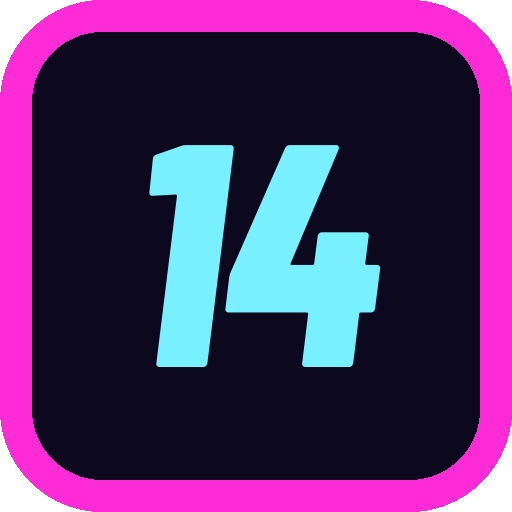
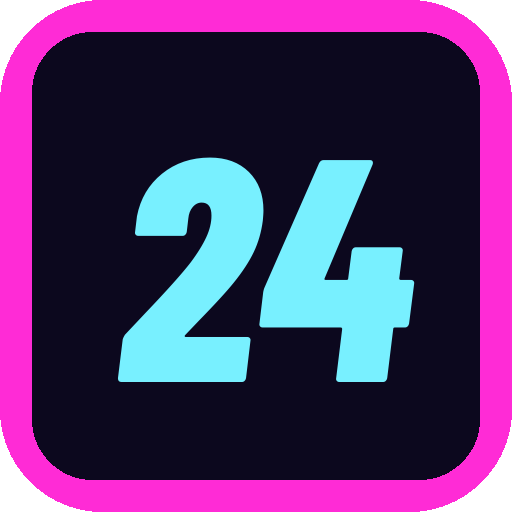
Update the site badge from 23 to 24 to match the game count.
The homepage and games-list nav marks now read 24, favicons and app icons
show 24 instead of the old 14, and the README catalogue count is current.

diff --git a/index.html b/index.html
@@ -288,7 +288,7 @@ a{color:var(--cyan)}a:hover{color:#fff}
 <a class="skip" href="#games">Skip to games</a>
 <header class="nav" id="nav">
   <div class="nav__in">
-    <a class="brand" href="#top"><span class="brand__mark" aria-hidden="true">23</span><span class="brand__txt">AVPNFT1<em>GAMES</em></span></a>
+    <a class="brand" href="#top"><span class="brand__mark" aria-hidden="true">24</span><span class="brand__txt">AVPNFT1<em>GAMES</em></span></a>
     <nav aria-label="Main"><ul class="nav__links">
       <li><a href="#featured">Featured</a></li>
       <li><a href="#trailer">Trailer</a></li>
@@ -561,7 +561,7 @@ a{color:var(--cyan)}a:hover{color:#fff}
 
 <footer class="foot">
   <div class="wrap foot__in">
-    <a class="brand" href="#top"><span class="brand__mark" aria-hidden="true">23</span><span class="brand__txt">AVPNFT1<em>GAMES</em></span></a>
+    <a class="brand" href="#top"><span class="brand__mark" aria-hidden="true">24</span><span class="brand__txt">AVPNFT1<em>GAMES</em></span></a>
     <nav aria-label="Footer"><ul class="foot__links">
       <li><a href="https://avpnft1.itch.io/" target="_blank" rel="noopener">All games on itch.io</a></li>
       <li><a href="https://gamejolt.com/games/hit-the-future/1114193" target="_blank" rel="noopener">Game Jolt</a></li>

diff --git a/games/chaos-drive/index.html b/games/chaos-drive/index.html
@@ -34,7 +34,7 @@
 <a class="skip" href="#main">Skip to content</a>
 <header class="nav" id="nav">
   <div class="nav__in">
-    <a class="brand" href="/#top"><span class="brand__mark" aria-hidden="true">23</span><span class="brand__txt">AVPNFT1<em>GAMES</em></span></a>
+    <a class="brand" href="/#top"><span class="brand__mark" aria-hidden="true">24</span><span class="brand__txt">AVPNFT1<em>GAMES</em></span></a>
     <nav aria-label="Primary">
       <ul class="nav__links">
         <li><a href="/#games">Games</a></li>
@@ -88,7 +88,7 @@
 </main>
 <footer class="foot">
   <div class="wrap foot__in">
-    <a class="brand" href="/#top"><span class="brand__mark" aria-hidden="true">23</span><span class="brand__txt">AVPNFT1<em>GAMES</em></span></a>
+    <a class="brand" href="/#top"><span class="brand__mark" aria-hidden="true">24</span><span class="brand__txt">AVPNFT1<em>GAMES</em></span></a>
     <ul class="foot__links">
       <li><a href="/#games">All games</a></li>
       <li><a href="https://avpnft1.itch.io/">itch.io</a></li>

diff --git a/games/chaos-quest/index.html b/games/chaos-quest/index.html
@@ -34,7 +34,7 @@
 <a class="skip" href="#main">Skip to content</a>
 <header class="nav" id="nav">
   <div class="nav__in">
-    <a class="brand" href="/#top"><span class="brand__mark" aria-hidden="true">23</span><span class="brand__txt">AVPNFT1<em>GAMES</em></span></a>
+    <a class="brand" href="/#top"><span class="brand__mark" aria-hidden="true">24</span><span class="brand__txt">AVPNFT1<em>GAMES</em></span></a>
     <nav aria-label="Primary">
       <ul class="nav__links">
         <li><a href="/#games">Games</a></li>
@@ -88,7 +88,7 @@
 </main>
 <footer class="foot">
   <div class="wrap foot__in">
-    <a class="brand" href="/#top"><span class="brand__mark" aria-hidden="true">23</span><span class="brand__txt">AVPNFT1<em>GAMES</em></span></a>
+    <a class="brand" href="/#top"><span class="brand__mark" aria-hidden="true">24</span><span class="brand__txt">AVPNFT1<em>GAMES</em></span></a>
     <ul class="foot__links">
       <li><a href="/#games">All games</a></li>
       <li><a href="https://avpnft1.itch.io/">itch.io</a></li>

diff --git a/games/grand-tournament-auto/index.html b/games/grand-tournament-auto/index.html
@@ -34,7 +34,7 @@
 <a class="skip" href="#main">Skip to content</a>
 <header class="nav" id="nav">
   <div class="nav__in">
-    <a class="brand" href="/#top"><span class="brand__mark" aria-hidden="true">23</span><span class="brand__txt">AVPNFT1<em>GAMES</em></span></a>
+    <a class="brand" href="/#top"><span class="brand__mark" aria-hidden="true">24</span><span class="brand__txt">AVPNFT1<em>GAMES</em></span></a>
     <nav aria-label="Primary">
       <ul class="nav__links">
         <li><a href="/#games">Games</a></li>
@@ -88,7 +88,7 @@
 </main>
 <footer class="foot">
   <div class="wrap foot__in">
-    <a class="brand" href="/#top"><span class="brand__mark" aria-hidden="true">23</span><span class="brand__txt">AVPNFT1<em>GAMES</em></span></a>
+    <a class="brand" href="/#top"><span class="brand__mark" aria-hidden="true">24</span><span class="brand__txt">AVPNFT1<em>GAMES</em></span></a>
     <ul class="foot__links">
       <li><a href="/#games">All games</a></li>
       <li><a href="https://avpnft1.itch.io/">itch.io</a></li>

diff --git a/games/hell-casino/index.html b/games/hell-casino/index.html
@@ -34,7 +34,7 @@
 <a class="skip" href="#main">Skip to content</a>
 <header class="nav" id="nav">
   <div class="nav__in">
-    <a class="brand" href="/#top"><span class="brand__mark" aria-hidden="true">23</span><span class="brand__txt">AVPNFT1<em>GAMES</em></span></a>
+    <a class="brand" href="/#top"><span class="brand__mark" aria-hidden="true">24</span><span class="brand__txt">AVPNFT1<em>GAMES</em></span></a>
     <nav aria-label="Primary">
       <ul class="nav__links">
         <li><a href="/#games">Games</a></li>
@@ -88,7 +88,7 @@
 </main>
 <footer class="foot">
   <div class="wrap foot__in">
-    <a class="brand" href="/#top"><span class="brand__mark" aria-hidden="true">23</span><span class="brand__txt">AVPNFT1<em>GAMES</em></span></a>
+    <a class="brand" href="/#top"><span class="brand__mark" aria-hidden="true">24</span><span class="brand__txt">AVPNFT1<em>GAMES</em></span></a>
     <ul class="foot__links">
       <li><a href="/#games">All games</a></li>
       <li><a href="https://avpnft1.itch.io/">itch.io</a></li>

diff --git a/games/helldrive/index.html b/games/helldrive/index.html
@@ -34,7 +34,7 @@
 <a class="skip" href="#main">Skip to content</a>
 <header class="nav" id="nav">
   <div class="nav__in">
-    <a class="brand" href="/#top"><span class="brand__mark" aria-hidden="true">23</span><span class="brand__txt">AVPNFT1<em>GAMES</em></span></a>
+    <a class="brand" href="/#top"><span class="brand__mark" aria-hidden="true">24</span><span class="brand__txt">AVPNFT1<em>GAMES</em></span></a>
     <nav aria-label="Primary">
       <ul class="nav__links">
         <li><a href="/#games">Games</a></li>
@@ -88,7 +88,7 @@
 </main>
 <footer class="foot">
   <div class="wrap foot__in">
-    <a class="brand" href="/#top"><span class="brand__mark" aria-hidden="true">23</span><span class="brand__txt">AVPNFT1<em>GAMES</em></span></a>
+    <a class="brand" href="/#top"><span class="brand__mark" aria-hidden="true">24</span><span class="brand__txt">AVPNFT1<em>GAMES</em></span></a>
     <ul class="foot__links">
       <li><a href="/#games">All games</a></li>
       <li><a href="https://avpnft1.itch.io/">itch.io</a></li>

diff --git a/games/hit-the-future-2/index.html b/games/hit-the-future-2/index.html
@@ -34,7 +34,7 @@
 <a class="skip" href="#main">Skip to content</a>
 <header class="nav" id="nav">
   <div class="nav__in">
-    <a class="brand" href="/#top"><span class="brand__mark" aria-hidden="true">23</span><span class="brand__txt">AVPNFT1<em>GAMES</em></span></a>
+    <a class="brand" href="/#top"><span class="brand__mark" aria-hidden="true">24</span><span class="brand__txt">AVPNFT1<em>GAMES</em></span></a>
     <nav aria-label="Primary">
       <ul class="nav__links">
         <li><a href="/#games">Games</a></li>
@@ -88,7 +88,7 @@
 </main>
 <footer class="foot">
   <div class="wrap foot__in">
-    <a class="brand" href="/#top"><span class="brand__mark" aria-hidden="true">23</span><span class="brand__txt">AVPNFT1<em>GAMES</em></span></a>
+    <a class="brand" href="/#top"><span class="brand__mark" aria-hidden="true">24</span><span class="brand__txt">AVPNFT1<em>GAMES</em></span></a>
     <ul class="foot__links">
       <li><a href="/#games">All games</a></li>
       <li><a href="https://avpnft1.itch.io/">itch.io</a></li>

diff --git a/games/hit-the-future/index.html b/games/hit-the-future/index.html
@@ -34,7 +34,7 @@
 <a class="skip" href="#main">Skip to content</a>
 <header class="nav" id="nav">
   <div class="nav__in">
-    <a class="brand" href="/#top"><span class="brand__mark" aria-hidden="true">23</span><span class="brand__txt">AVPNFT1<em>GAMES</em></span></a>
+    <a class="brand" href="/#top"><span class="brand__mark" aria-hidden="true">24</span><span class="brand__txt">AVPNFT1<em>GAMES</em></span></a>
     <nav aria-label="Primary">
       <ul class="nav__links">
         <li><a href="/#games">Games</a></li>
@@ -88,7 +88,7 @@
 </main>
 <footer class="foot">
   <div class="wrap foot__in">
-    <a class="brand" href="/#top"><span class="brand__mark" aria-hidden="true">23</span><span class="brand__txt">AVPNFT1<em>GAMES</em></span></a>
+    <a class="brand" href="/#top"><span class="brand__mark" aria-hidden="true">24</span><span class="brand__txt">AVPNFT1<em>GAMES</em></span></a>
     <ul class="foot__links">
       <li><a href="/#games">All games</a></li>
       <li><a href="https://avpnft1.itch.io/">itch.io</a></li>

diff --git a/games/metawinners-curse-of-the-house/index.html b/games/metawinners-curse-of-the-house/index.html
@@ -34,7 +34,7 @@
 <a class="skip" href="#main">Skip to content</a>
 <header class="nav" id="nav">
   <div class="nav__in">
-    <a class="brand" href="/#top"><span class="brand__mark" aria-hidden="true">23</span><span class="brand__txt">AVPNFT1<em>GAMES</em></span></a>
+    <a class="brand" href="/#top"><span class="brand__mark" aria-hidden="true">24</span><span class="brand__txt">AVPNFT1<em>GAMES</em></span></a>
     <nav aria-label="Primary">
       <ul class="nav__links">
         <li><a href="/#games">Games</a></li>
@@ -88,7 +88,7 @@
 </main>
 <footer class="foot">
   <div class="wrap foot__in">
-    <a class="brand" href="/#top"><span class="brand__mark" aria-hidden="true">23</span><span class="brand__txt">AVPNFT1<em>GAMES</em></span></a>
+    <a class="brand" href="/#top"><span class="brand__mark" aria-hidden="true">24</span><span class="brand__txt">AVPNFT1<em>GAMES</em></span></a>
     <ul class="foot__links">
       <li><a href="/#games">All games</a></li>
       <li><a href="https://avpnft1.itch.io/">itch.io</a></li>

diff --git a/games/metawinners-flip/index.html b/games/metawinners-flip/index.html
@@ -34,7 +34,7 @@
 <a class="skip" href="#main">Skip to content</a>
 <header class="nav" id="nav">
   <div class="nav__in">
-    <a class="brand" href="/#top"><span class="brand__mark" aria-hidden="true">23</span><span class="brand__txt">AVPNFT1<em>GAMES</em></span></a>
+    <a class="brand" href="/#top"><span class="brand__mark" aria-hidden="true">24</span><span class="brand__txt">AVPNFT1<em>GAMES</em></span></a>
     <nav aria-label="Primary">
       <ul class="nav__links">
         <li><a href="/#games">Games</a></li>
@@ -88,7 +88,7 @@
 </main>
 <footer class="foot">
   <div class="wrap foot__in">
-    <a class="brand" href="/#top"><span class="brand__mark" aria-hidden="true">23</span><span class="brand__txt">AVPNFT1<em>GAMES</em></span></a>
+    <a class="brand" href="/#top"><span class="brand__mark" aria-hidden="true">24</span><span class="brand__txt">AVPNFT1<em>GAMES</em></span></a>
     <ul class="foot__links">
       <li><a href="/#games">All games</a></li>
       <li><a href="https://avpnft1.itch.io/">itch.io</a></li>

diff --git a/games/metawinners-jackpot-drift/index.html b/games/metawinners-jackpot-drift/index.html
@@ -34,7 +34,7 @@
 <a class="skip" href="#main">Skip to content</a>
 <header class="nav" id="nav">
   <div class="nav__in">
-    <a class="brand" href="/#top"><span class="brand__mark" aria-hidden="true">23</span><span class="brand__txt">AVPNFT1<em>GAMES</em></span></a>
+    <a class="brand" href="/#top"><span class="brand__mark" aria-hidden="true">24</span><span class="brand__txt">AVPNFT1<em>GAMES</em></span></a>
     <nav aria-label="Primary">
       <ul class="nav__links">
         <li><a href="/#games">Games</a></li>
@@ -88,7 +88,7 @@
 </main>
 <footer class="foot">
   <div class="wrap foot__in">
-    <a class="brand" href="/#top"><span class="brand__mark" aria-hidden="true">23</span><span class="brand__txt">AVPNFT1<em>GAMES</em></span></a>
+    <a class="brand" href="/#top"><span class="brand__mark" aria-hidden="true">24</span><span class="brand__txt">AVPNFT1<em>GAMES</em></span></a>
     <ul class="foot__links">
       <li><a href="/#games">All games</a></li>
       <li><a href="https://avpnft1.itch.io/">itch.io</a></li>

diff --git a/games/metawinners-jam/index.html b/games/metawinners-jam/index.html
@@ -34,7 +34,7 @@
 <a class="skip" href="#main">Skip to content</a>
 <header class="nav" id="nav">
   <div class="nav__in">
-    <a class="brand" href="/#top"><span class="brand__mark" aria-hidden="true">23</span><span class="brand__txt">AVPNFT1<em>GAMES</em></span></a>
+    <a class="brand" href="/#top"><span class="brand__mark" aria-hidden="true">24</span><span class="brand__txt">AVPNFT1<em>GAMES</em></span></a>
     <nav aria-label="Primary">
       <ul class="nav__links">
         <li><a href="/#games">Games</a></li>
@@ -88,7 +88,7 @@
 </main>
 <footer class="foot">
   <div class="wrap foot__in">
-    <a class="brand" href="/#top"><span class="brand__mark" aria-hidden="true">23</span><span class="brand__txt">AVPNFT1<em>GAMES</em></span></a>
+    <a class="brand" href="/#top"><span class="brand__mark" aria-hidden="true">24</span><span class="brand__txt">AVPNFT1<em>GAMES</em></span></a>
     <ul class="foot__links">
       <li><a href="/#games">All games</a></li>
       <li><a href="https://avpnft1.itch.io/">itch.io</a></li>
